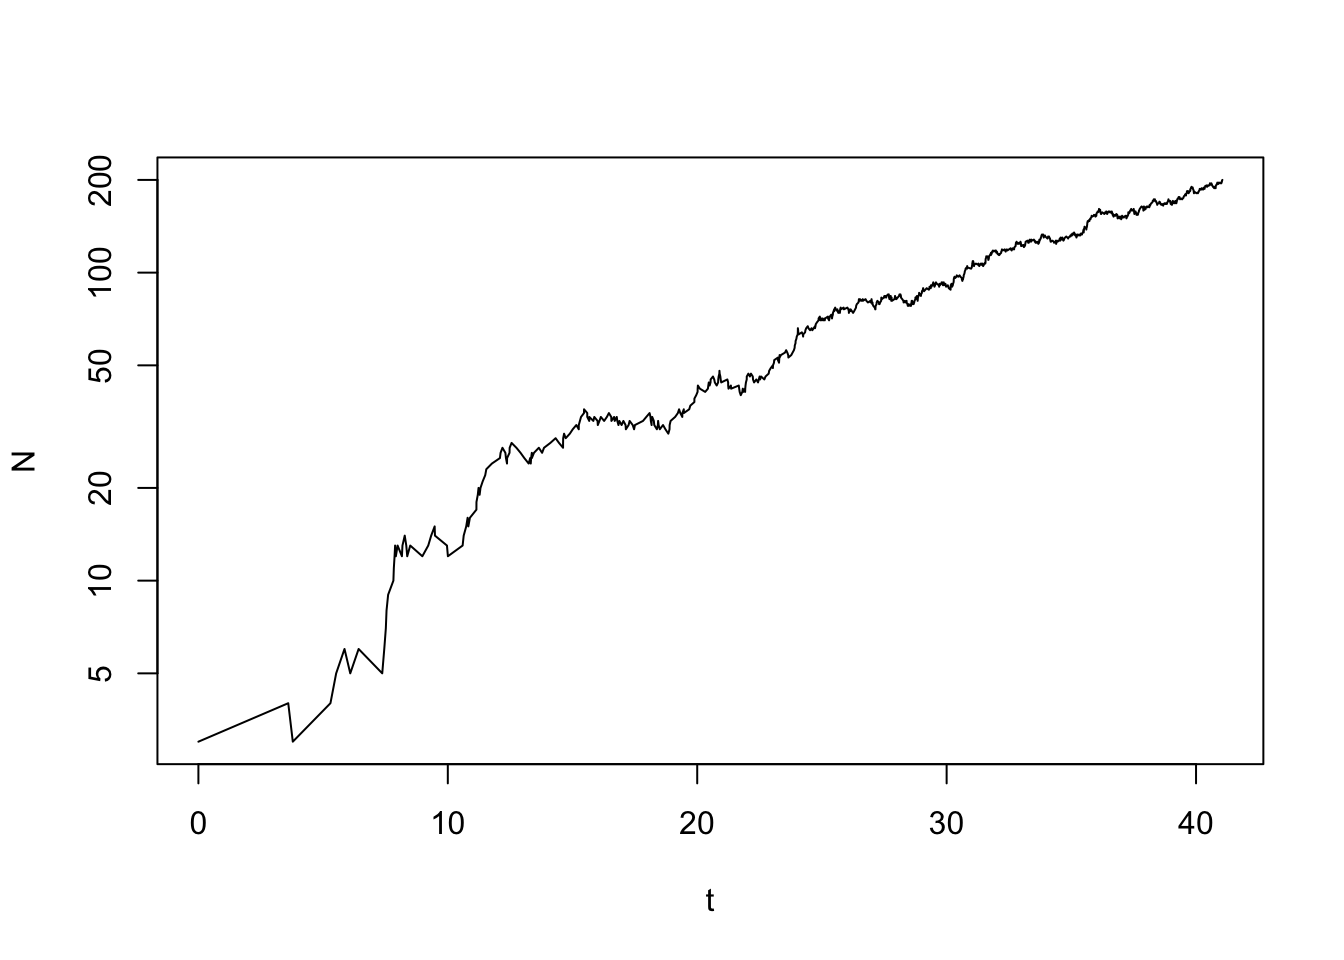
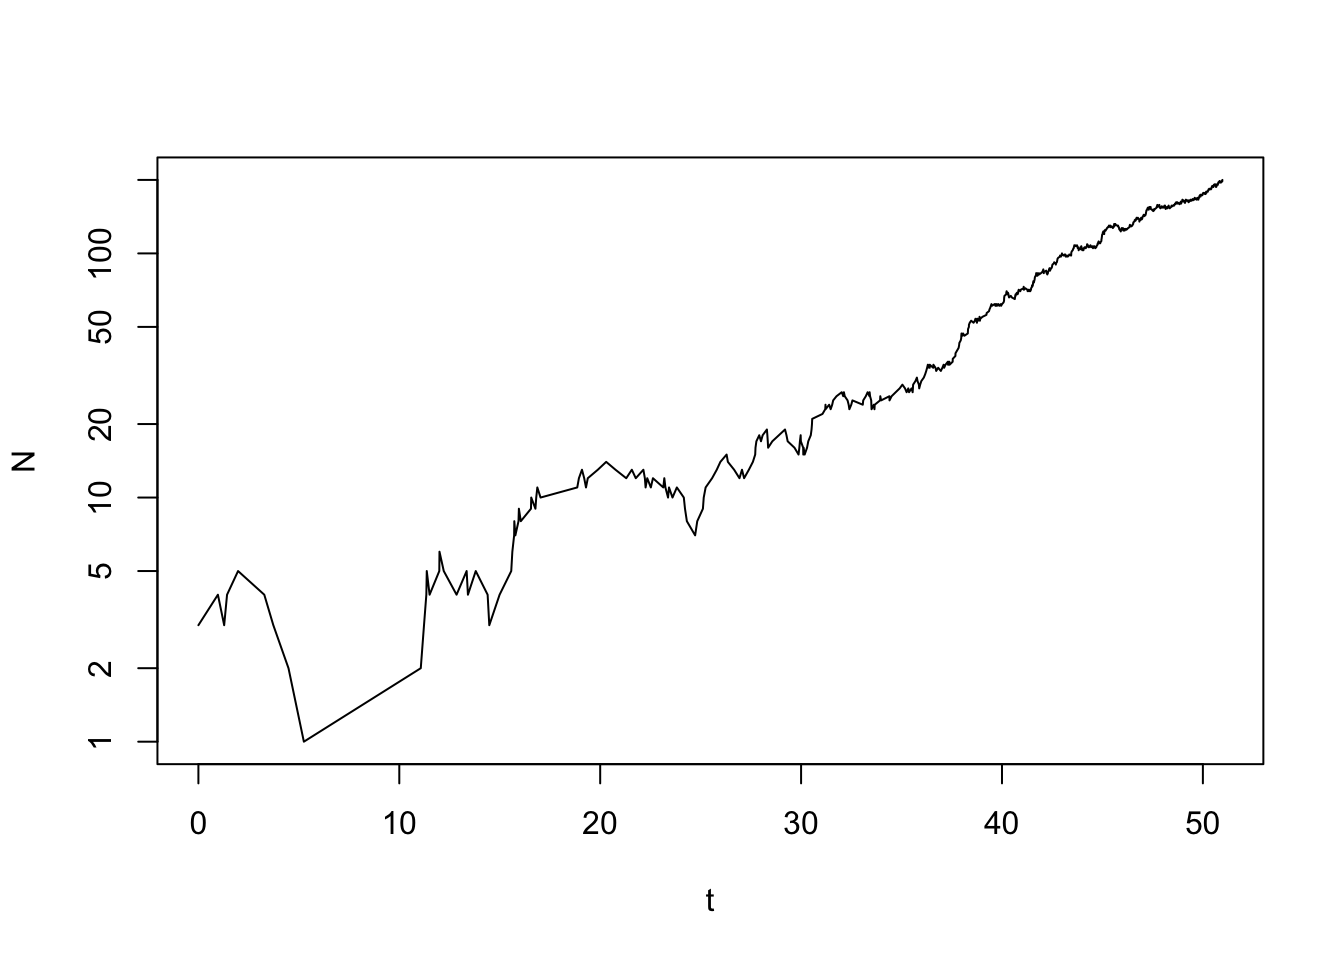
typos demographic stochasticity tab

diff --git a/docs/DemographicStochasticity.html b/docs/DemographicStochasticity.html
@@ -295,13 +295,13 @@ $(document).ready(function () {
 <pre class="r"><code>sample(x =c(-1, 1), size = 1, prob = c(d = 0.2, b = 0.3))
 # in fact, instead of evaluating the above line of code ten times we can simply evaluate
 sample(x =c(-1, 1), size = 10, replace = TRUE, prob = c(d = 0.2, b = 0.3)) # here we had to add the argument replace=TRUE to the function to indicate that earlier outcomes do not effect the probabilities of future outcomes</code></pre>
-<p>If the population wide death and birth rate are given by <code>d*N</code> and <code>b*N</code>, respectively, how much time elapses between the occurence of two events? This <em>waiting time</em> depends on the probability that neither a death nor a birth event occurs at a given moment. Thus, the length of the waiting time between two events is also a random variable and its distribution is given by the exponential distribution. We can determine the length of the wating time by drawing a random number from the exponential distribution after a death or a birth has occured using <code>rexp(n = 1, rate = d * N + b * N)</code>, where <code>n = 1</code> indicates that we are drawing a single waiting time and <code>rate = d * N + b * N</code> is the <em>total event rate</em>. For example</p>
+<p>If the population wide death and birth rate are given by <span class="math inline">\(d*N\)</span> and <span class="math inline">\(b*N\)</span>, respectively, how much time elapses between the occurrence of two events? This <em>waiting time</em> depends on the probability that neither a death nor a birth event occurs at a given moment. Thus, the length of the waiting time between two events is also a random variable and its distribution is given by the <a href="https://en.wikipedia.org/wiki/Geometric_distribution"><em>exponential distribution</em></a>. We can determine the length of the waiting time by drawing a random number from the exponential distribution after a death or a birth has occurred using <code>rexp(n = 1, rate = d * N + b * N)</code>, where <span class="math inline">\(n = 1\)</span> indicates that we are drawing a single waiting time and <span class="math inline">\(rate = d * N + b * N\)</span> is the <em>total event rate</em>. For example</p>
 <pre class="r"><code>d &lt;- 0.2
 b &lt;- 0.3
 N &lt;- 10
 rexp(n = 1, rate = d * N + b * N)</code></pre>
 <p>gives the waiting time between two events. Note that <code>rexp(n = 1, rate = d * N + b * N)</code> produces a different value each time you execute the above command.</p>
-<p>In the following piece of R-code we define a function that puts all these pieces together and creates a stochastic population dynamical time series. The function has four arguments: <code>N0</code> (the initial number of individuals in the population), <code>Nmax</code> (when the simulated population has reached this number the simulation stops (the simulation also stops once the population has gone extinct (<code>N=0</code>)), <code>d</code> (the per capita death rate) and <code>b</code> (the per capita birth rate). At the heart of our function is a <code>while</code>-loop so that the algorithm is repeated until the population is either extinct or the population size has reached <code>Nmax</code>.</p>
+<p>In the following piece of <em>R</em>-code we define a function that puts all these pieces together and creates a stochastic population dynamical time series. The function has four arguments: <em>N0</em> (the initial number of individuals in the population), <em>Nmax</em> (when the simulated population has reached this number the simulation stops (the simulation also stops once the population has gone extinct (<em>N=0</em>)), <em>d</em> (the per capita death rate) and <em>b</em> (the per capita birth rate). At the heart of our function is a <em>while</em>-loop so that the algorithm is repeated until the population is either extinct or the population size has reached <em>Nmax</em>.</p>
 <pre class="r"><code>time_series &lt;- function(N0, Nmax, d, b){# this defines a function with the name &quot;time_series&quot;. It has four arguments: N0, Nmax, b, d
   N &lt;- N0 # initial value for population size
   t &lt;- 0 # initial value for time
@@ -317,22 +317,30 @@ rexp(n = 1, rate = d * N + b * N)</code></pre>
 }</code></pre>
 <p>We can evaluate the function by writing</p>
 <pre class="r"><code>time_series(N0 = 3, Nmax = 10, d = 0.2, b = 0.3)</code></pre>
-<pre><code>##           t N
-## 1 0.0000000 3
-## 2 0.3521782 2
-## 3 0.4130112 1
-## 4 3.3499641 2
-## 5 4.2342146 1
-## 6 4.8325027 0</code></pre>
-<p>Thus, in this case we have <code>N0=3</code>, <code>Nmax=10</code>, <code>d=0.2</code>, and <code>b=0.3</code>. The output of the function is a data frame with two columns. The first column gives the time an event occurs and the second column gives the updated population size. Each time you evaluate the function you obtain a different output. This is due to the stochastic nature of the simulation. Let us visualize a time series (now for <code>Nmax=200</code>).</p>
+<pre><code>##            t  N
+## 1  0.0000000  3
+## 2  0.4933014  4
+## 3  0.7100137  5
+## 4  0.9677866  4
+## 5  2.1251697  3
+## 6  2.7490444  4
+## 7  3.0641834  5
+## 8  3.6199136  6
+## 9  3.7583078  7
+## 10 4.0414816  6
+## 11 4.1064414  7
+## 12 4.1447071  8
+## 13 4.4317050  9
+## 14 4.7476769 10</code></pre>
+<p>Thus, in this case we have <em>N0=3</em>, <em>Nmax=10</em>, <em>d=0.2</em>, and <em>b=0.3</em>. The output of the function is a data frame with two columns. The first column gives the time an event occurs and the second column gives the updated population size. Each time you evaluate the function you obtain a different output. This is due to the stochastic nature of the simulation. Let us visualize a time series (now for <em>Nmax=200</em>).</p>
 <pre class="r"><code>data &lt;- time_series(3, 200, 0.2, 0.3)
 plot(data, type=&quot;l&quot;)</code></pre>
 <p><img src="DemographicStochasticity_files/figure-html/unnamed-chunk-5-1.png" width="672" /></p>
-<p>Maybe in your particular simulation the population went extinct? If so, execute the function again to see whether it might then have reached <code>Nmax</code> before going extinct. Since we are dealing with a stochastic version of exponential growth we might want to plot the population size on a log-scale.</p>
+<p>Maybe in your particular simulation the population went extinct? If so, execute the function again to see whether it might then have reached <em>Nmax</em> before going extinct. Since we are dealing with a stochastic version of exponential growth we might want to plot the population size on a log-scale.</p>
 <pre class="r"><code>plot(data, log=&quot;y&quot;, type=&quot;l&quot;)</code></pre>
 <p><img src="DemographicStochasticity_files/figure-html/unnamed-chunk-6-1.png" width="672" /></p>
-<p>You can vary the parameters <code>N0</code>, <code>Nmax</code>, <code>d</code> and <code>b</code> and investigate their effect on the time series, more specifically, whether or not the population goes extinct.</p>
-<p>What is the effect of our chosen set of parameters on the probability that the population size reaches <code>N=Nmax</code> before it goes extinct? To investigate this, we have to look at many realisations of the simulation and it is easier to do this by automatising this process. We start by setting the parameters where we add one additional parameter, <code>sim</code>, that determines how many times the simulation is repeated. We can do this using the same construction we used when investigating many runs of environmental stochasticity.</p>
+<p>You can vary the parameters <em>N0</em>, <em>Nmax</em>, <em>d</em> and <em>b</em> and investigate their effect on the time series, more specifically, whether or not the population goes extinct.</p>
+<p>What is the effect of our chosen set of parameters on the probability that the population size reaches <em>N=Nmax</em> before it goes extinct? To investigate this, we have to look at many realisations of the simulation and it is easier to do this by automatizing this process. We start by setting the parameters where we add one additional parameter, <em>sim</em>, that determines how many times the simulation is repeated. We can do this using the same construction we used when investigating many runs of environmental stochasticity.</p>
 <pre class="r"><code>N0 &lt;- 3
 Nmax &lt;- 50
 d &lt;- 0.2
@@ -351,8 +359,10 @@ for (i in 1:sim) {# to create sim different simulations, we embedd the function 
 tmax &lt;- max(maxt) # the length of the longest time series is assigned to the parameter tmax</code></pre>
 <p>Next comes the code that produces the plots.</p>
 <pre class="r"><code>colors &lt;- rainbow(length(results)) # sets number of colours equal to number sim
-plot(results[[1]], type=&quot;l&quot;, log=&quot;y&quot;, ylim=c(1, Nmax), xlim=c(0, tmax), col=colors[1]) # plots the first simulation
-for (i in 2:sim) {# this for-loop adds all further simulations to the same graph
+plot(results[[1]], type=&quot;l&quot;, log=&quot;y&quot;, ylim=c(1, Nmax), xlim=c(0, tmax), col=colors[1]) # plots the first simulation</code></pre>
+<pre><code>## Warning in xy.coords(x, y, xlabel, ylabel, log): 1 y value &lt;= 0 omitted from
+## logarithmic plot</code></pre>
+<pre class="r"><code>for (i in 2:sim) {# this for-loop adds all further simulations to the same graph
   lines(results[[i]], type=&quot;l&quot;, col=colors[i])
 }</code></pre>
 <p><img src="DemographicStochasticity_files/figure-html/unnamed-chunk-9-1.png" width="672" /></p>
@@ -360,7 +370,7 @@ for (i in 2:sim) {# this for-loop adds all further simulations to the same graph
 <div id="task" class="section level3">
 <h3>Task</h3>
 <ol style="list-style-type: decimal">
-<li><p>Investigating the probability of extinction in dependence of four different parameters (<code>N0</code>, <code>Nmax</code>, <code>d</code>, <code>b</code>) is a bit cumbersome. Let us therefore set the maximum population size to 200 (<code>Nmax=200</code>) and the death rate equal to 1 (<code>d=1</code>) and only vary <code>N0</code> and <code>b</code>. Vary <code>b</code> according to <code>b = (0.9; 1; 1.1; 1.2; 1.5)</code> and initial population size <code>N0</code> according to <code>N0 = (1; 3; 5; 10; 50)</code>. Varying both parameters together gives you 25 different parameter combinations that you can arrange in a table with five rows (<code>N0</code>) and five columns (<code>birth</code>). In each cell of this table, report the proportion of ten runs that result in extinction. Please also think which conclusions you can draw from your results about the effect of <code>N0</code> and <code>b</code> on the probability of extinction? Are there parameter combinations that you feel you need to add to your analysis to get a better understanding?</p></li>
+<li><p>Investigating the probability of extinction in dependence of four different parameters (<em>N0</em>, <em>Nmax</em>, <em>d</em>, <em>b</em>) is a bit cumbersome. Let us therefore set the maximum population size to 200 (<em>Nmax=200</em>) and the death rate equal to 1 (<em>d=1</em>) and only vary <em>N0</em> and <em>b</em>. Vary <em>b</em> according to <em>b = (0.9; 1; 1.1; 1.2; 1.5)</em> and initial population size <em>N0</em> according to <em>N0 = (1; 3; 5; 10; 50)</em>. Varying both parameters together gives you 25 different parameter combinations that you can arrange in a table with five rows (<em>N0</em>) and five columns (<em>birth</em>). In each cell of this table, report the proportion of ten runs that result in extinction. Please also think which conclusions you can draw from your results about the effect of <em>N0</em> and <em>b</em> on the probability of extinction? Are there parameter combinations that you feel you need to add to your analysis to get a better understanding?</p></li>
 <li><p>As we have seen in the lecture, an analytical prediction for the extinction probability is given by the formula <span class="math display">\[
 u(N_0)=
 \begin{cases}
